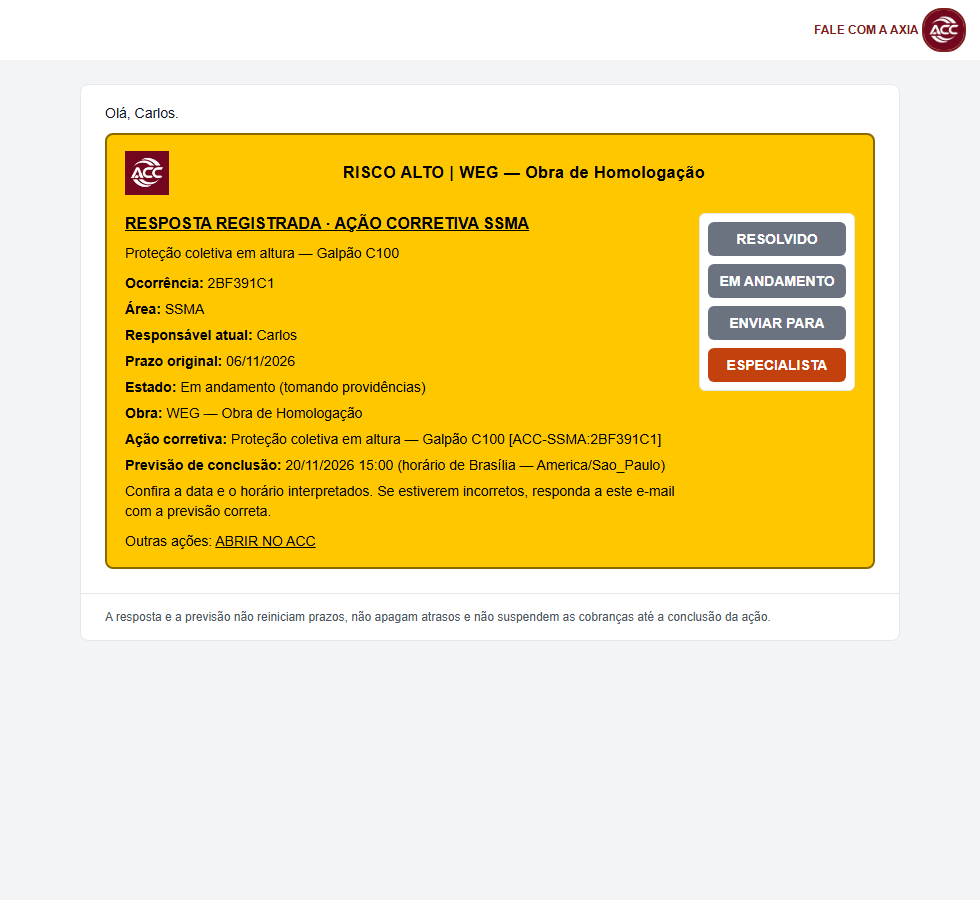
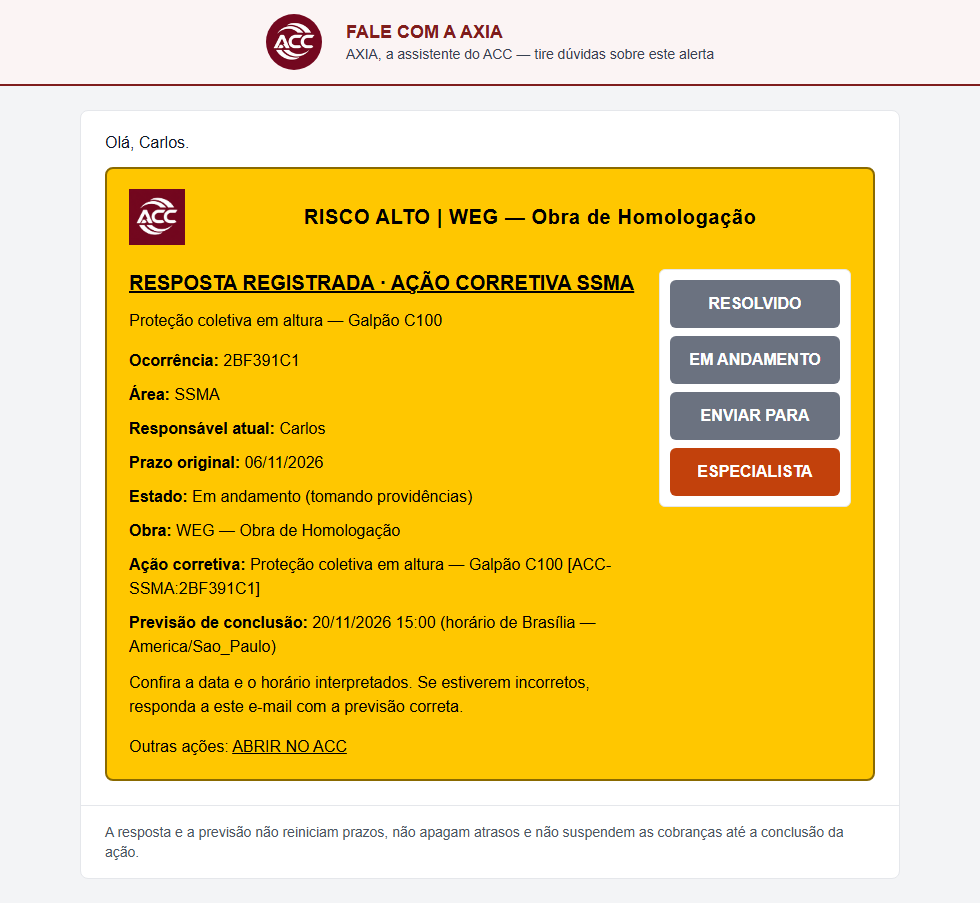
feat(emails): legibilidade — corpo 16px, titulo 20px, botoes 170x48, logotipo 56px, caixa de resposta separada, faixa da AXIA com imagem completa

diff --git a/apps/web/lib/email/templates/universal-alert-template.ts b/apps/web/lib/email/templates/universal-alert-template.ts
@@ -100,13 +100,13 @@ function actionsOf(o: UniversalOccurrence): UniversalActionsInput {
 function field(label: string, value: string | null | undefined, severity: AlertSeverity): string {
   if (!value) return "";
   const tone = ALERT_TONES[severity];
-  return `<p style="margin:0 0 6px 0;${textStyle("regular", tone.text)}"><span style="${textStyle("bold", tone.text)}">${escapeAttr(label)}:</span> ${escapeAttr(value)}</p>`;
+  return `<p style="margin:0 0 10px 0;${textStyle("regular", tone.text)}"><span style="${textStyle("bold", tone.text)}">${escapeAttr(label)}:</span> ${escapeAttr(value)}</p>`;
 }
 
 function completionBadgeHtml(o: UniversalOccurrence): string {
   if (!o.completed) return "";
   const when = o.completedAtLabel ? ` em ${escapeAttr(o.completedAtLabel)}` : "";
-  return `<p style="margin:0 0 10px 0;"><span style="display:inline-block;background-color:#15803D;color:#ffffff;border:1px solid #14532D;border-radius:4px;padding:3px 10px;font-family:${ACC_FONT_FAMILY};font-size:14px;font-weight:700;">&#10003; CONCLUÍDO${when}</span></p>`;
+  return `<p style="margin:0 0 10px 0;"><span style="display:inline-block;background-color:#15803D;color:#ffffff;border:1px solid #14532D;border-radius:4px;padding:3px 10px;font-family:${ACC_FONT_FAMILY};font-size:16px;font-weight:700;">&#10003; CONCLUÍDO${when}</span></p>`;
 }
 
 function contentHtml(o: UniversalOccurrence): string {
@@ -123,20 +123,20 @@ function contentHtml(o: UniversalOccurrence): string {
     .join(" · ");
   return [
     completionBadgeHtml(o),
-    `<p style="margin:0 0 8px 0;">${title}</p>`,
-    `<p style="margin:0 0 10px 0;${textStyle("regular", tone.text)}">${escapeAttr(o.description)}</p>`,
+    `<p style="margin:0 0 12px 0;">${title}</p>`,
+    `<p style="margin:0 0 16px 0;${textStyle("regular", tone.text)}">${escapeAttr(o.description)}</p>`,
     field("Ocorrência", o.code, o.severity),
     field("Área", o.areaLabel, o.severity),
     field("Responsável atual", o.responsibleName ?? "não definido", o.severity),
     field("Prazo original", o.originalDeadline ?? null, o.severity),
     field("Estado", o.stateLabel, o.severity),
     ...(o.details ?? []).map((d) => field(d.label, d.value, o.severity)),
-    ...(o.notices ?? []).map((n) => `<p style="margin:6px 0 6px 0;${textStyle("regular", tone.text)}">${escapeAttr(n)}</p>`),
+    ...(o.notices ?? []).map((n) => `<p style="margin:12px 0 0 0;${textStyle("regular", tone.text)}">${escapeAttr(n)}</p>`),
     o.replyInstruction
-      ? `<div style="margin:10px 0 0 0;background-color:#FFFFFF;border:1px solid #E5E7EB;border-radius:6px;padding:10px 12px;"><p style="margin:0 0 4px 0;font-family:${ACC_FONT_FAMILY};font-size:14px;line-height:20px;font-weight:700;color:#111827;">Responder pelo e-mail</p><p style="margin:0;font-family:${ACC_FONT_FAMILY};font-size:14px;line-height:20px;color:#111827;">${escapeAttr(o.replyInstruction)}</p></div>`
+      ? `<div style="margin:20px 0 0 0;background-color:#FFFFFF;border:1px solid #D1D5DB;border-left:4px solid #7F1D1D;border-radius:6px;padding:16px 18px;"><p style="margin:0 0 8px 0;font-family:${ACC_FONT_FAMILY};font-size:16px;line-height:24px;font-weight:700;color:#111827;">Responder pelo e-mail</p><p style="margin:0;font-family:${ACC_FONT_FAMILY};font-size:16px;line-height:26px;color:#111827;">${escapeAttr(o.replyInstruction)}</p></div>`
       : "",
     (o.extraLinks ?? []).filter((l) => isSafeActionUrl(l.url)).length > 0
-      ? `<p style="margin:10px 0 0 0;${textStyle("regular", tone.text)}">Outras ações: ${(o.extraLinks ?? []).filter((l) => isSafeActionUrl(l.url)).map((l) => `<a href="${escapeAttr(l.url)}" style="${textStyle("regular", tone.link, "text-decoration:underline;")}">${escapeAttr(l.label)}</a>`).join(" · ")}</p>`
+      ? `<p style="margin:16px 0 0 0;${textStyle("regular", tone.text)}">Outras ações: ${(o.extraLinks ?? []).filter((l) => isSafeActionUrl(l.url)).map((l) => `<a href="${escapeAttr(l.url)}" style="${textStyle("regular", tone.link, "text-decoration:underline;")}">${escapeAttr(l.label)}</a>`).join(" · ")}</p>`
       : "",
     evidences ? `<p style="margin:6px 0 0 0;${textStyle("bold", tone.text)}">Evidências: ${evidences}</p>` : "",
   ].join("");
@@ -151,7 +151,7 @@ export function buildUniversalOccurrenceHtml(o: UniversalOccurrence, logos: Aler
     <table role="presentation" width="100%" cellpadding="0" cellspacing="0" style="margin-top:${HEADER_GAP_PX}px;">
       <tr>
         <td class="acc-content-col" valign="top" style="padding:0;word-break:break-word;color:${ALERT_TONES[o.severity].text};">${contentHtml(o)}</td>
-        <td class="acc-actions-col" valign="top" width="${BUTTON_COLUMN_WIDTH_PX}" style="width:${BUTTON_COLUMN_WIDTH_PX}px;padding:0 0 0 16px;">${panel}</td>
+        <td class="acc-actions-col" valign="top" width="${BUTTON_COLUMN_WIDTH_PX}" style="width:${BUTTON_COLUMN_WIDTH_PX}px;padding:0 0 0 22px;">${panel}</td>
       </tr>
     </table>`;
   return buildAlertBoxHtml(o.severity, inner);
@@ -187,8 +187,8 @@ const UNIVERSAL_MOBILE_CSS = `
     .acc-actions-col { padding:16px 0 0 0 !important; }
     .acc-actions-panel { width:100% !important; }
     .acc-buttons-wrap { width:100% !important; }
-    .acc-compact-btn td { height:44px !important; }
-    .acc-compact-btn a, .acc-compact-btn span { height:44px !important; line-height:44px !important; }
+    .acc-compact-btn td { height:52px !important; }
+    .acc-compact-btn a, .acc-compact-btn span { height:52px !important; line-height:52px !important; }
     table { max-width:100% !important; }`;
 
 const STYLE_BLOCK = `<style>
@@ -220,7 +220,7 @@ ${STYLE_BLOCK}
     <td align="center">
       <table role="presentation" width="820" cellpadding="0" cellspacing="0" style="width:100%;max-width:820px;background-color:#ffffff;border:1px solid #e5e7eb;border-radius:8px;">
         ${bodyHtml}
-        <tr><td style="padding:16px 24px;border-top:1px solid #e5e7eb;"><p style="margin:0;font-family:${ACC_FONT_FAMILY};color:#4B5563;font-size:12px;">${escapeAttr(footer)}</p></td></tr>
+        <tr><td style="padding:16px 24px;border-top:1px solid #e5e7eb;"><p style="margin:0;font-family:${ACC_FONT_FAMILY};color:#4B5563;font-size:14px;line-height:20px;">${escapeAttr(footer)}</p></td></tr>
       </table>
     </td>
   </tr>
@@ -240,7 +240,7 @@ export interface UniversalAlertEmailInput {
 export function buildUniversalAlertEmail(input: UniversalAlertEmailInput): BuiltUniversalEmail {
   const o = input.occurrence;
   const greeting = input.recipientName ? `Olá, ${input.recipientName}.` : "Olá.";
-  const greetingRow = `<tr><td style="padding:20px 24px 12px 24px;"><p style="margin:0;font-family:${ACC_FONT_FAMILY};color:#111827;font-size:14px;">${escapeAttr(greeting)}</p></td></tr>`;
+  const greetingRow = `<tr><td style="padding:20px 24px 12px 24px;"><p style="margin:0;font-family:${ACC_FONT_FAMILY};color:#111827;font-size:16px;line-height:24px;">${escapeAttr(greeting)}</p></td></tr>`;
   const boxRow = `<tr><td style="padding:0 24px 24px 24px;">${buildUniversalOccurrenceHtml(o, input.logos)}</td></tr>`;
   const html = shell(greetingRow + boxRow, input.footer ?? DEFAULT_FOOTER);
   const text = ["ACC - AXION Controle de Contratos", "", greeting, "", ...buildUniversalOccurrenceText(o), "", input.footer ?? DEFAULT_FOOTER].join("\n");
@@ -273,9 +273,9 @@ export interface UniversalDigestEmailInput {
 export function buildUniversalDigestEmail(input: UniversalDigestEmailInput): BuiltUniversalEmail {
   const greeting = input.recipientName ? `Olá, ${input.recipientName}.` : "Olá.";
   const heading = input.heading ?? `Consolidado de riscos — ${input.projectName}`;
-  const head = `<tr><td style="padding:20px 24px 8px 24px;"><p style="margin:0 0 8px 0;font-family:${ACC_FONT_FAMILY};color:#111827;font-size:14px;">${escapeAttr(greeting)}</p><h1 style="margin:0 0 6px 0;font-family:${ACC_FONT_FAMILY};color:#111827;font-size:18px;">${escapeAttr(heading)}</h1><p style="margin:0;font-family:${ACC_FONT_FAMILY};color:#111827;font-size:14px;"><strong>Resumo executivo:</strong> ${escapeAttr(input.summaryLine)}</p><p style="margin:4px 0 0 0;font-family:${ACC_FONT_FAMILY};color:#4B5563;font-size:12px;">${escapeAttr(input.windowLabel)}</p></td></tr>`;
+  const head = `<tr><td style="padding:20px 24px 8px 24px;"><p style="margin:0 0 8px 0;font-family:${ACC_FONT_FAMILY};color:#111827;font-size:16px;line-height:24px;">${escapeAttr(greeting)}</p><h1 style="margin:0 0 6px 0;font-family:${ACC_FONT_FAMILY};color:#111827;font-size:22px;line-height:30px;">${escapeAttr(heading)}</h1><p style="margin:0;font-family:${ACC_FONT_FAMILY};color:#111827;font-size:16px;line-height:24px;"><strong>Resumo executivo:</strong> ${escapeAttr(input.summaryLine)}</p><p style="margin:4px 0 0 0;font-family:${ACC_FONT_FAMILY};color:#4B5563;font-size:14px;line-height:20px;">${escapeAttr(input.windowLabel)}</p></td></tr>`;
   const boxes = input.occurrences.map((o) => `<tr><td style="padding:0 24px 16px 24px;">${buildUniversalOccurrenceHtml(o, input.logos)}</td></tr>`).join("");
-  const empty = input.occurrences.length === 0 ? `<tr><td style="padding:0 24px 16px 24px;"><p style="margin:0;font-family:${ACC_FONT_FAMILY};color:#4B5563;font-size:13px;">Nenhuma ocorrência no período.</p></td></tr>` : "";
+  const empty = input.occurrences.length === 0 ? `<tr><td style="padding:0 24px 16px 24px;"><p style="margin:0;font-family:${ACC_FONT_FAMILY};color:#4B5563;font-size:14px;">Nenhuma ocorrência no período.</p></td></tr>` : "";
   const link = input.responseLink;
   const response = link && isSafeActionUrl(link.url)
     ? `<tr><td style="padding:0 24px 16px 24px;"><a href="${escapeAttr(link.url)}" style="display:inline-block;padding:10px 16px;background-color:#7F1D1D;color:#FFFFFF;border-radius:6px;text-decoration:none;font-weight:700;font-family:${ACC_FONT_FAMILY};">${escapeAttr(link.label)}</a></td></tr>`

diff --git a/apps/web/lib/email/templates/alert-box-style.ts b/apps/web/lib/email/templates/alert-box-style.ts
@@ -11,7 +11,7 @@
 //   MÉDIO   : fundo branco,                   texto preto,  logo vinho
 //   BAIXO   : fundo branco,                   texto preto,  logo vinho
 //   Borda contínua de 2px: tom mais escuro que o fundo nos coloridos, cinza médio nos brancos.
-//   UM único tamanho de fonte em todo o alerta (14px); só o PESO diferencia (regular ou negrito; nunca black/900); o cabeçalho de risco e o título usam corpo maior,
+//   UM único tamanho de fonte em todo o alerta (16px); só o PESO diferencia (regular ou negrito; nunca black/900); o cabeçalho de risco e o título usam corpo maior,
 //   cabeçalho/cláusula/evidência/"Repete" em negrito, descrição em regular.
 //
 // BADGE_STYLES (contract-alert-template.ts) NÃO é alterado: continua sendo usado pelos demais
@@ -80,12 +80,12 @@ export function contrastRatio(foregroundHex: string, backgroundHex: string): num
 // ---------- tipografia ÚNICA ----------
 
 /** Tamanho de fonte único de todo texto do alerta (cabeçalho, título, descrição, cláusula, evidência, "Repete", botões). */
-export const ALERT_FONT_SIZE = "14px";
-export const ALERT_LINE_HEIGHT = "20px";
+export const ALERT_FONT_SIZE = "16px";
+export const ALERT_LINE_HEIGHT = "24px";
 
-/** Corpo MAIOR (cabeçalho "RISCO … | OBRA" e título do alerta); o restante segue em 14px. */
-export const ALERT_EMPHASIS_FONT_SIZE = "16px";
-export const ALERT_EMPHASIS_LINE_HEIGHT = "22px";
+/** Corpo MAIOR (cabeçalho "RISCO … | OBRA" e título do alerta); o restante segue em 16px (cabeçalho e título em 20px). */
+export const ALERT_EMPHASIS_FONT_SIZE = "20px";
+export const ALERT_EMPHASIS_LINE_HEIGHT = "28px";
 
 export const WEIGHT = { regular: 400, bold: 700 } as const;
 
@@ -100,7 +100,7 @@ export function textStyle(weight: keyof typeof WEIGHT, color: string, extra = ""
 // ---------- logo / cabeçalho ----------
 
 // Logo oficial 44px (quadrado). Mantém proporção 1:1 do arquivo oficial.
-export const ALERT_LOGO_SIZE_PX = 44;
+export const ALERT_LOGO_SIZE_PX = 56;
 
 export function logoCidFor(variant: LogoVariant): string {
   return variant === "inverted" ? ACC_EMAIL_LOGO_INVERTED_CID : ACC_EMAIL_LOGO_CID;
@@ -149,7 +149,7 @@ export function buildAlertHeaderHtml(
 // ---------- caixa ----------
 
 /** Espaço visível entre a linha logo/risco e o primeiro texto abaixo. */
-export const HEADER_GAP_PX = 18;
+export const HEADER_GAP_PX = 24;
 
 /**
  * Indicação de gravidade nos alertas de fundo BRANCO: faixa lateral azul (MÉDIO) ou verde (BAIXO). CRÍTICO e ALTO já se
@@ -162,30 +162,30 @@ export function buildAlertBoxHtml(severity: AlertSeverity, innerHtml: string): s
   const tone = ALERT_TONES[severity];
   const accent = ALERT_ACCENT[severity];
   const accentStyle = accent ? `border-left:6px solid ${accent};` : "";
-  return `<table role="presentation" width="100%" cellpadding="0" cellspacing="0" bgcolor="${tone.background}" style="width:100%;border-collapse:separate;border-spacing:0;background-color:${tone.background};border:2px solid ${tone.border};${accentStyle}border-radius:8px;"><tr><td style="padding:16px 18px;">${innerHtml}</td></tr></table>`;
+  return `<table role="presentation" width="100%" cellpadding="0" cellspacing="0" bgcolor="${tone.background}" style="width:100%;border-collapse:separate;border-spacing:0;background-color:${tone.background};border:2px solid ${tone.border};${accentStyle}border-radius:8px;"><tr><td style="padding:20px 22px;">${innerHtml}</td></tr></table>`;
 }
 
 /** Painel interno branco usado nos blocos de detalhe quando o fundo da caixa é escuro. */
 export function panelStyle(severity: AlertSeverity): string {
   return ALERT_TONES[severity].dark
-    ? "background-color:#ffffff;color:#111111;border:1px solid #e5e7eb;border-radius:6px;padding:10px 12px;"
+    ? "background-color:#ffffff;color:#111111;border:1px solid #e5e7eb;border-radius:6px;padding:12px 14px;"
     : "";
 }
 
 // ---------- botões (RESOLVIDO / EM ANDAMENTO / ENVIADO P/) ----------
 
-export const BUTTON_FONT_SIZE_PX = 14;
-// Largura do texto "EM ANDAMENTO" em Arial negrito 14px MEDIDA NO HTML RENDERIZADO (Chrome,
-// escala 1x, getBoundingClientRect): 114px. Largura do botão = texto + 12px de cada lado = 138px.
+export const BUTTON_FONT_SIZE_PX = 16;
+// Largura do texto "EM ANDAMENTO" em Arial negrito 16px MEDIDA NO HTML RENDERIZADO (Chrome,
+// escala 1x, getBoundingClientRect): 130px. Largura do botão = texto + 20px de cada lado = 170px.
 // Observação: a métrica sem hinting pode diferir ~1–5%; a folga lateral varia um pouco, sem cortar
 // o texto (nowrap, largura fixa maior que o texto).
-export const EM_ANDAMENTO_TEXT_WIDTH_PX = 114;
-export const BUTTON_SIDE_PADDING_PX = 12;
+export const EM_ANDAMENTO_TEXT_WIDTH_PX = 130;
+export const BUTTON_SIDE_PADDING_PX = 20;
 export const BUTTON_WIDTH_PX = Math.ceil(EM_ANDAMENTO_TEXT_WIDTH_PX + 2 * BUTTON_SIDE_PADDING_PX); // 138
-export const BUTTON_HEIGHT_PX = 34;
+export const BUTTON_HEIGHT_PX = 48;
 
 /** Coluna branca dos botões: um pouco mais larga que os botões, com pequena margem lateral. */
-export const BUTTON_COLUMN_MARGIN_PX = 8;
+export const BUTTON_COLUMN_MARGIN_PX = 10;
 export const BUTTON_COLUMN_WIDTH_PX = BUTTON_WIDTH_PX + 2 * BUTTON_COLUMN_MARGIN_PX; // 154
 
 export interface AlertActionButtonStyle {
@@ -255,5 +255,5 @@ export function buildActionsPanelHtml(innerHtml: string, consultAiHref?: string 
 export const ALERT_MOBILE_CSS = `
     .acc-actions-panel { width:100% !important; }
     .acc-buttons-wrap { display:block !important; width:100% !important; margin:0 !important; }
-    .acc-compact-btn td { height:44px !important; }
-    .acc-compact-btn a, .acc-compact-btn span { height:44px !important; line-height:44px !important; }`;
+    .acc-compact-btn td { height:52px !important; }
+    .acc-compact-btn a, .acc-compact-btn span { height:52px !important; line-height:52px !important; }`;

diff --git a/apps/web/lib/email/branding/vera-email-header.ts b/apps/web/lib/email/branding/vera-email-header.ts
@@ -62,14 +62,18 @@ function escapeAttribute(value: string): string {
 export function buildVeraHeaderHtml(url: string, hasImage: boolean): string {
   const href = escapeAttribute(url);
   const label = "FALE COM A AXIA";
+  // Faixa de identificação completa (imagem 56px sem recorte + nome + apoio), em tabela simples compatível com Gmail e Outlook.
   const image = hasImage
-    ? `&nbsp;<img src="cid:${VERA_EMAIL_IMAGE_CID}" width="40" height="40" alt="AXIA — Assistente ACC" style="vertical-align:middle;border-radius:20px;border:2px solid #7F1D1D;width:40px;height:40px;">`
+    ? `<td width="68" valign="middle" style="width:68px;padding:0 12px 0 0;"><a href="${href}" style="text-decoration:none;"><img src="cid:${VERA_EMAIL_IMAGE_CID}" width="56" height="56" alt="AXIA — Assistente ACC" style="display:block;border:0;width:56px;height:56px;border-radius:28px;"></a></td>`
     : "";
   return (
-    `<table role="presentation" width="100%" cellpadding="0" cellspacing="0" ${VERA_EMAIL_MARKER} style="background:#FFFFFF;">` +
-    `<tr><td align="right" style="padding:8px 14px;">` +
-    `<a href="${href}" title="Abrir a AXIA — Assistente ACC" style="text-decoration:none;color:#7F1D1D;font-family:Arial,Helvetica,sans-serif;font-size:12px;font-weight:bold;">` +
-    `<span style="vertical-align:middle;">${label}</span>${image}</a>` +
+    `<table role="presentation" width="100%" cellpadding="0" cellspacing="0" ${VERA_EMAIL_MARKER} style="background:#FBF4F4;border-bottom:2px solid #7F1D1D;">` +
+    `<tr><td align="center" style="padding:14px 18px;">` +
+    `<table role="presentation" cellpadding="0" cellspacing="0" align="center"><tr>${image}` +
+    `<td valign="middle" style="text-align:left;">` +
+    `<a href="${href}" title="Abrir a AXIA — Assistente ACC" style="text-decoration:none;color:#7F1D1D;font-family:Arial,Helvetica,sans-serif;font-size:18px;line-height:24px;font-weight:bold;">${label}</a><br>` +
+    `<a href="${href}" style="text-decoration:none;color:#374151;font-family:Arial,Helvetica,sans-serif;font-size:14px;line-height:20px;">AXIA, a assistente do ACC — tire dúvidas sobre este alerta</a>` +
+    `</td></tr></table>` +
     `</td></tr></table>`
   );
 }

diff --git a/apps/web/lib/email/templates/universal-alert-actions.ts b/apps/web/lib/email/templates/universal-alert-actions.ts
@@ -47,7 +47,7 @@ export function isSafeActionUrl(value: string | null | undefined): value is stri
 function disabledButtonHtml(label: string, reason: string, isFirst: boolean): string {
   const w = BUTTON_WIDTH_PX;
   const h = BUTTON_HEIGHT_PX;
-  return `<table class="acc-compact-btn acc-btn-disabled" role="presentation" align="center" width="${w}" cellpadding="0" cellspacing="0" style="width:${w}px;margin:${isFirst ? "0" : "8px"} auto 0 auto;border-collapse:separate;"><tr><td width="${w}" height="${h}" align="center" bgcolor="${DISABLED_BACKGROUND}" style="width:${w}px;height:${h}px;background-color:${DISABLED_BACKGROUND};border-radius:6px;text-align:center;"><span title="${escapeAttr(reason)}" aria-disabled="true" style="display:block;width:${w}px;height:${h}px;line-height:${h}px;color:${DISABLED_COLOR};font-family:${ACC_FONT_FAMILY};font-size:${BUTTON_FONT_SIZE_PX}px;font-weight:700;text-align:center;white-space:nowrap;overflow:hidden;">${escapeAttr(label)}</span></td></tr></table><p class="acc-btn-reason" style="margin:4px 0 0 0;text-align:center;font-family:${ACC_FONT_FAMILY};font-size:14px;line-height:20px;color:${DISABLED_COLOR};">${escapeAttr(reason)}</p>`;
+  return `<table class="acc-compact-btn acc-btn-disabled" role="presentation" align="center" width="${w}" cellpadding="0" cellspacing="0" style="width:${w}px;margin:${isFirst ? "0" : "8px"} auto 0 auto;border-collapse:separate;"><tr><td width="${w}" height="${h}" align="center" bgcolor="${DISABLED_BACKGROUND}" style="width:${w}px;height:${h}px;background-color:${DISABLED_BACKGROUND};border-radius:6px;text-align:center;"><span title="${escapeAttr(reason)}" aria-disabled="true" style="display:block;width:${w}px;height:${h}px;line-height:${h}px;color:${DISABLED_COLOR};font-family:${ACC_FONT_FAMILY};font-size:${BUTTON_FONT_SIZE_PX}px;font-weight:700;text-align:center;white-space:nowrap;overflow:hidden;">${escapeAttr(label)}</span></td></tr></table><p class="acc-btn-reason" style="margin:4px 0 0 0;text-align:center;font-family:${ACC_FONT_FAMILY};font-size:16px;line-height:24px;color:${DISABLED_COLOR};">${escapeAttr(reason)}</p>`;
 }
 
 export interface UniversalActionsInput {

diff --git a/apps/web/lib/email/templates/contract-alert-template.ts b/apps/web/lib/email/templates/contract-alert-template.ts
@@ -308,7 +308,7 @@ export function buildContractAlertEmail(input: ContractAlertEmailInput): Contrac
   if (quick) {
     actionsColumnHtml = `<td class="acc-actions-col" valign="top" width="${BUTTON_COLUMN_WIDTH_PX}" style="width:${BUTTON_COLUMN_WIDTH_PX}px;padding:0 0 0 16px;">${buildUniversalActionsPanelHtml({ links: { RESOLVIDO: quick.RESOLVIDO, EM_ANDAMENTO: quick.EM_ANDAMENTO, ENVIAR_PARA: quick.ENVIADO_PARA, ESPECIALISTA: input.aiConsultUrl }, unavailableReasons: { ESPECIALISTA: "Consulta indisponível para este alerta." } })}</td>`;
   } else if (input.actionButtons.length > 0) {
-    actionsColumnHtml = `<td class="acc-actions-col" valign="top" width="36%" style="width:36%;padding:0 0 0 16px;"><div style="background-color:#FFFFFF;border:1px solid #E5E7EB;border-radius:6px;padding:8px;">${renderEmailActionButtonsHtml(input.actionButtons, input.summary, "#4B5563", "14px")}</div></td>`;
+    actionsColumnHtml = `<td class="acc-actions-col" valign="top" width="36%" style="width:36%;padding:0 0 0 16px;"><div style="background-color:#FFFFFF;border:1px solid #E5E7EB;border-radius:6px;padding:8px;">${renderEmailActionButtonsHtml(input.actionButtons, input.summary, "#4B5563", "16px")}</div></td>`;
   }
 
   const boxInner = `

diff --git a/apps/web/lib/email-actions/render-buttons.ts b/apps/web/lib/email-actions/render-buttons.ts
@@ -63,7 +63,7 @@ export function renderEmailActionButtonsHtml(
       const marginTop = index === 0 ? "0" : "12px";
       const buttonHtml = `<a href="${escapeHtml(button.url)}" title="${escapeHtml(hoverDescription)}" aria-label="${escapeHtml(
         `${label} — ${hoverDescription}`
-      )}" class="${ACC_ACTION_BUTTON_CLASS}" style="display:block;width:100%;box-sizing:border-box;margin:${marginTop} 0 0 0;padding:10px 14px;background-color:#ffffff;color:${ACC_COLOR_BODY};font-family:${ACC_FONT_FAMILY};font-size:${ACC_FONT_SIZE_BODY};font-weight:bold;text-decoration:none;border-radius:6px;border:1px solid ${ACC_COLOR_HEADING};text-align:center;">${escapeHtml(
+      )}" class="${ACC_ACTION_BUTTON_CLASS}" style="display:block;width:100%;box-sizing:border-box;margin:${marginTop} 0 0 0;padding:10px 14px;background-color:#ffffff;color:${ACC_COLOR_BODY};font-family:${ACC_FONT_FAMILY};font-size:16px;font-weight:bold;text-decoration:none;border-radius:6px;border:1px solid ${ACC_COLOR_HEADING};text-align:center;">${escapeHtml(
         label
       )}</a>`;
       const captionHtml = `<p style="margin:4px 0 0 0;font-family:${ACC_FONT_FAMILY};font-size:${captionFontSize};color:${captionColor};text-align:center;">${escapeHtml(
